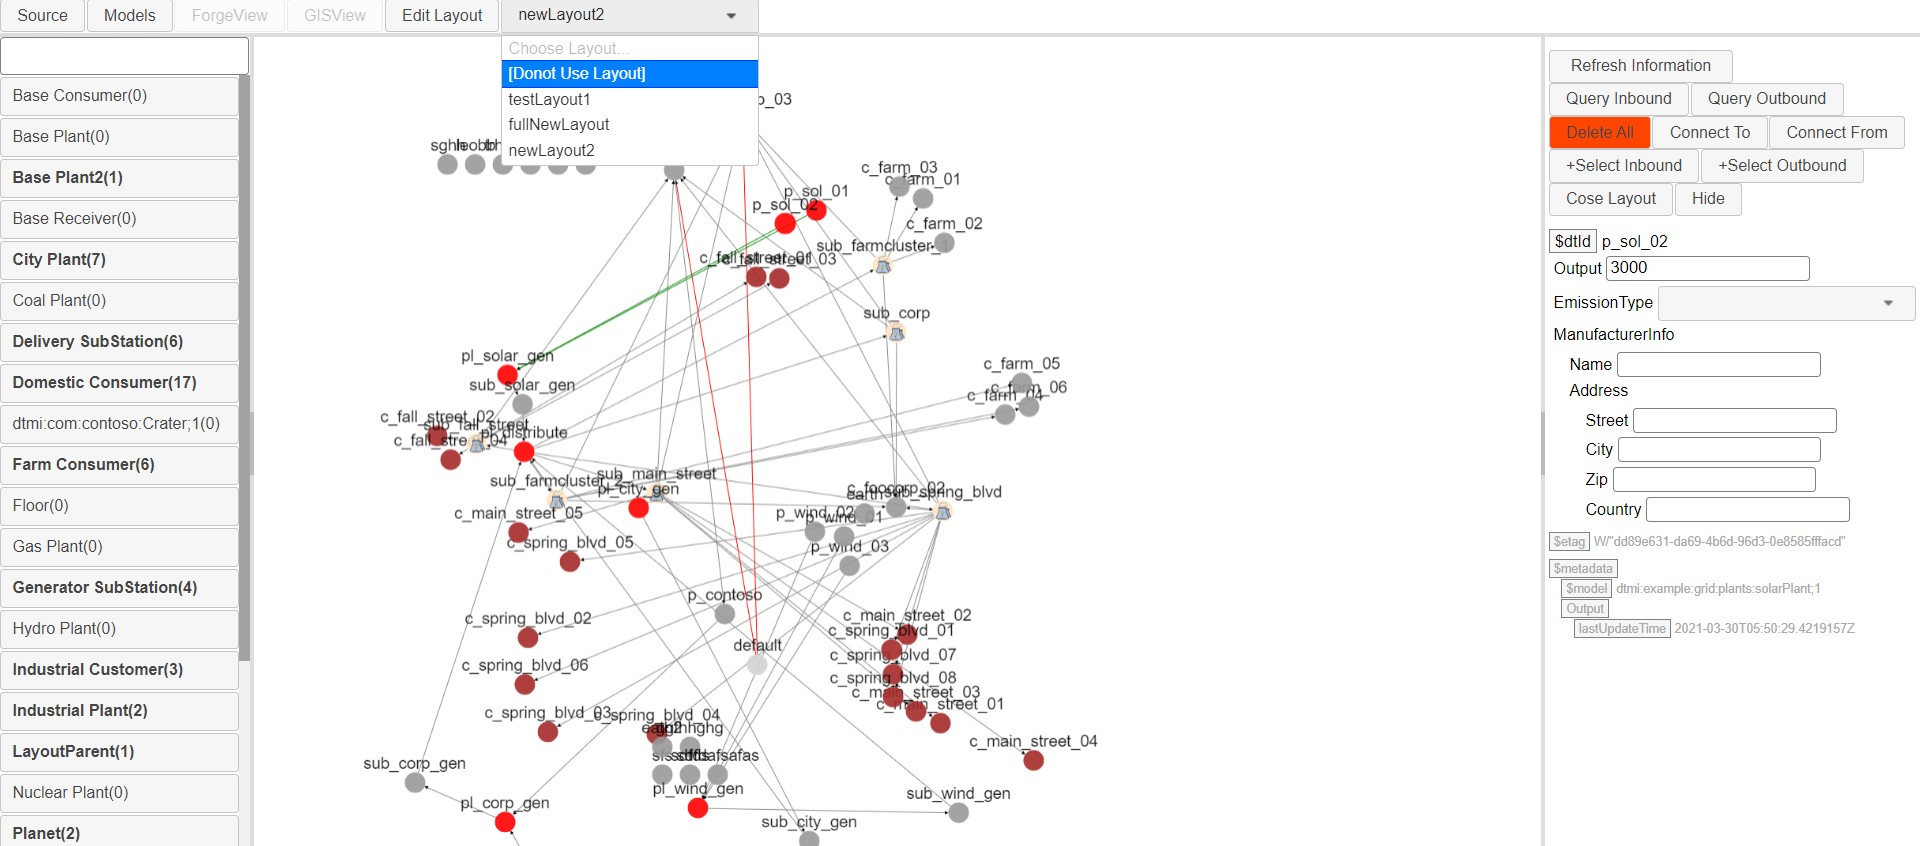
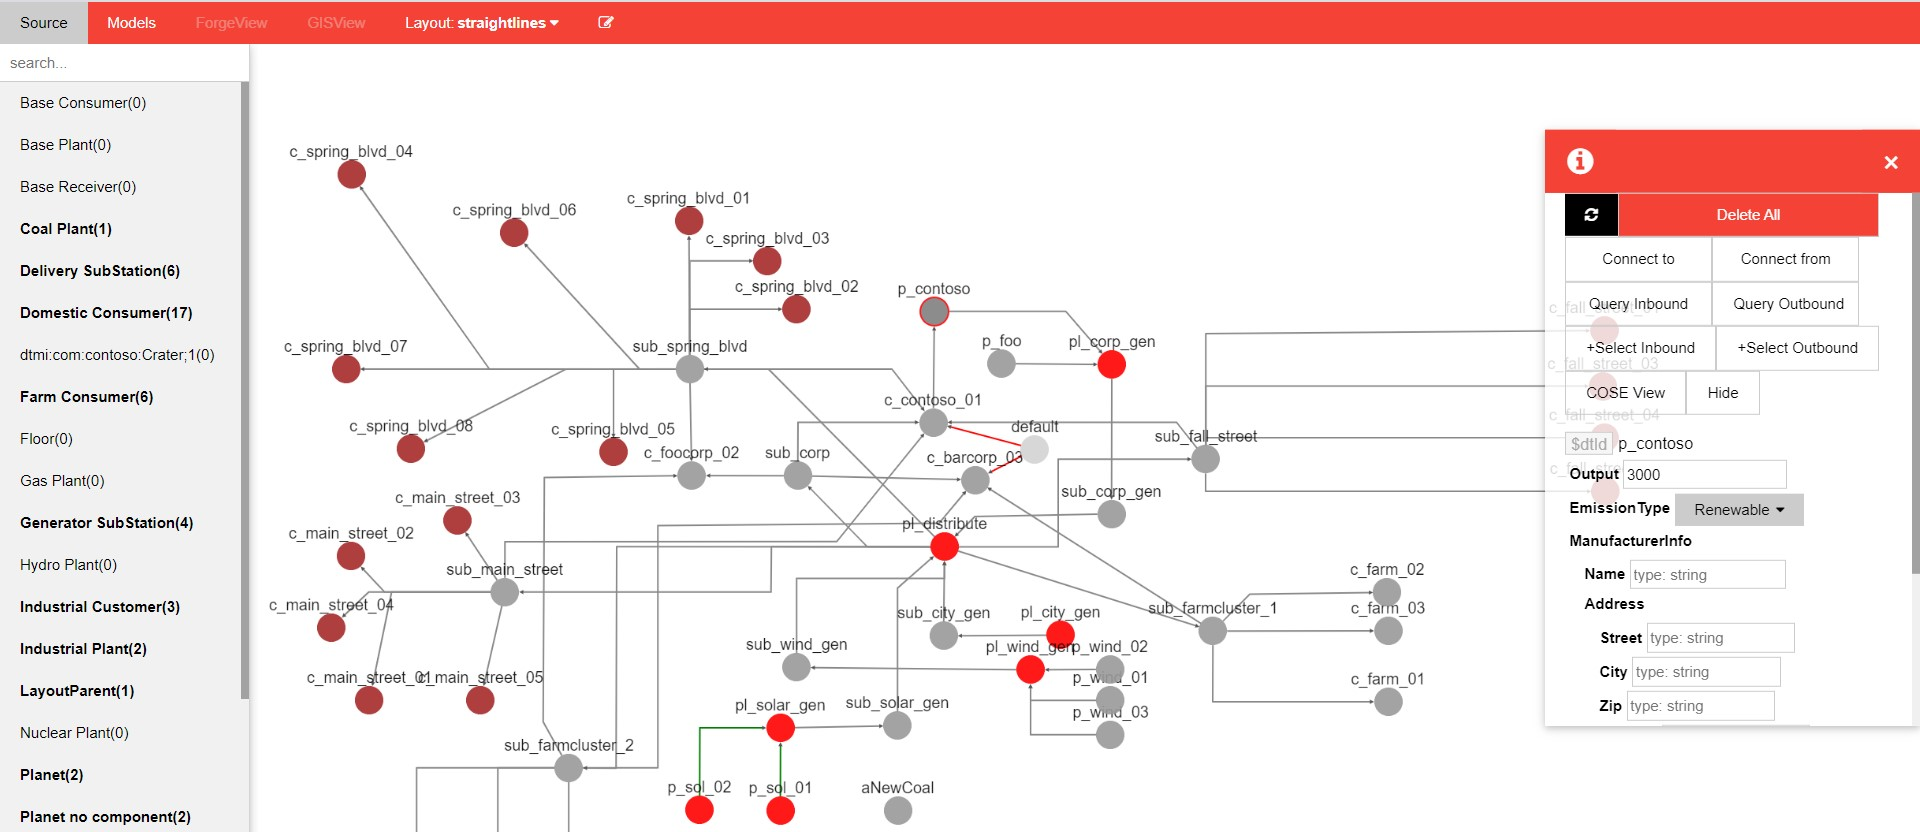
readme

diff --git a/README.md b/README.md
@@ -60,9 +60,9 @@ The application is created as an single web page application that accesses azure
 It should. [Azure IoT Rocks Platform](azureiotrocks-platform.md)
 
 ### New Feature update
+- Rehaul UI to be align with the coming cloud host platform version
 - Ehance editing functionality so you can easily creat right angle edge segments (like 90 degree) and align nodes in horizontal or vertial level
 - Support edge shape editing (segment lines or bezier curve), thanks to Cytoscape edge editing plugin
-![bending edge](https://raw.githubusercontent.com/leolumicrosoft/ADTUI/master/libfiles/images/saveEdge.jpg)
 
 ## Purpose
 - A convinient application to use together with ADT cloud service
@@ -75,7 +75,7 @@ It should. [Azure IoT Rocks Platform](azureiotrocks-platform.md)
 * Crytoscape Edge Editing extension (https://github.com/iVis-at-Bilkent/cytoscape.js-edge-editing)
 * Azure Digital Twin Javascript SDK (https://docs.microsoft.com/en-us/javascript/api/@azure/digital-twins-core/?view=azure-node-latest)
 * Azure Identity Javascript SDK (https://docs.microsoft.com/en-us/javascript/api/@azure/identity/?view=azure-node-latest)
-* JQuery UI (https://jqueryui.com/)
+* W3.CSS (https://www.w3schools.com/w3css/default.asp)
 * JQuery UI Layout (http://layout.jquery-dev.com/)
 
 
